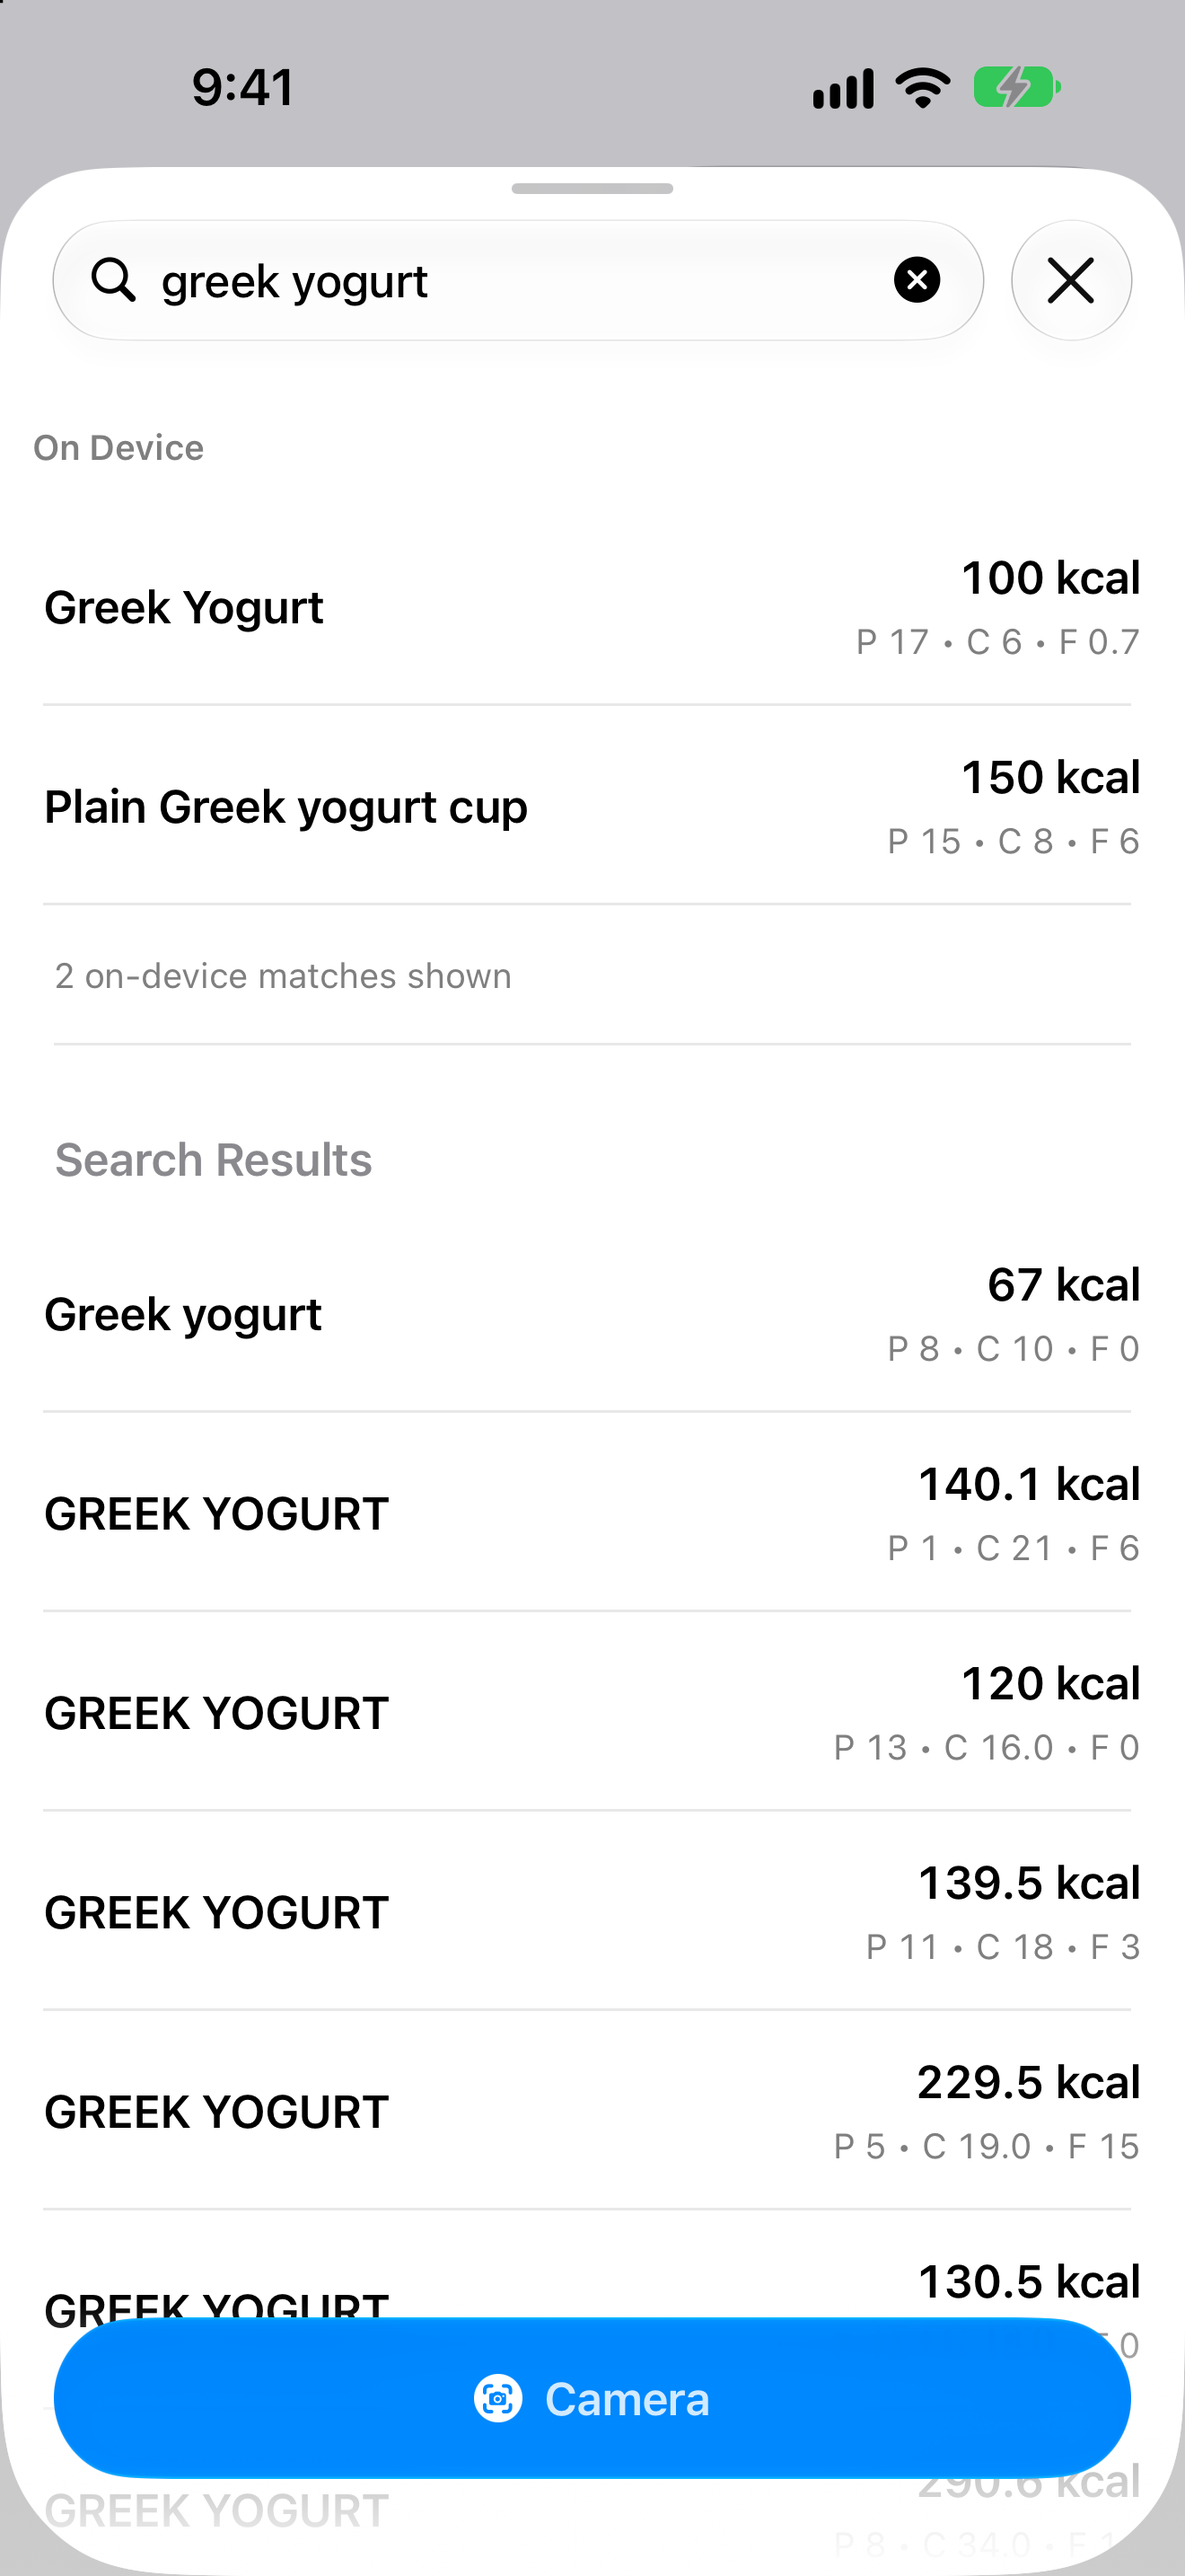
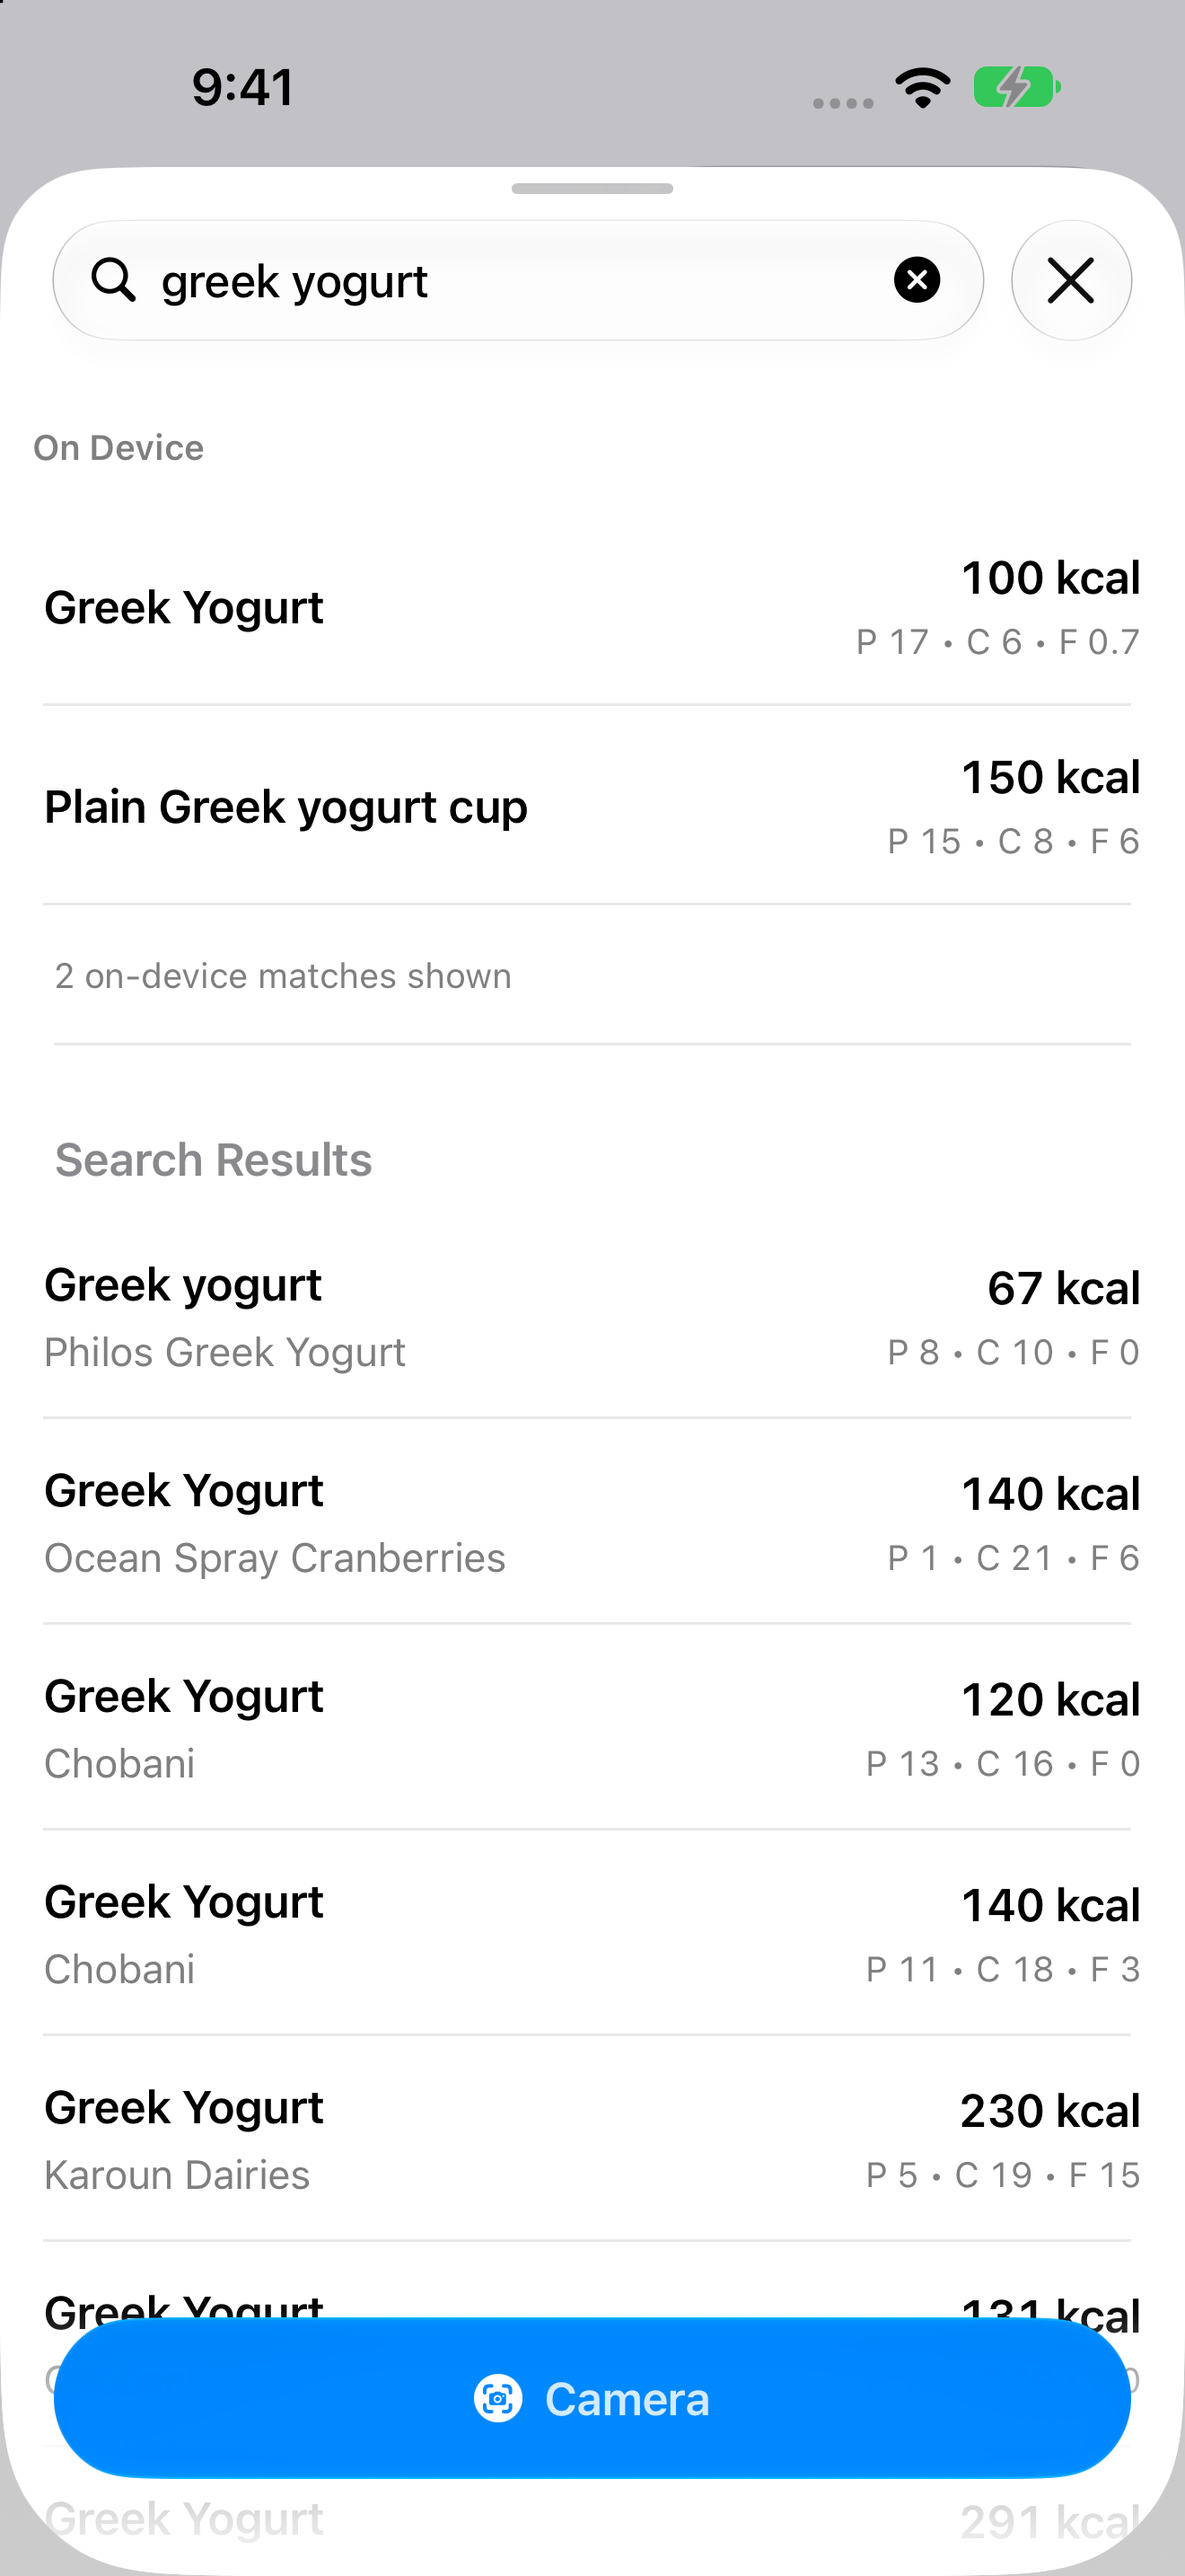
web: retake food search screenshot with brands

diff --git a/web/src/data/site.ts b/web/src/data/site.ts
@@ -200,7 +200,7 @@ export const site = {
 		},
 		{
 			src: appAddFoodImage,
-			alt: 'Food search for greek yogurt with On Device matches and Search Results in one list',
+			alt: 'Food search for greek yogurt with On Device matches and Search Results showing brands beneath food names',
 			title: 'Search foods in one list',
 		},
 		{

diff --git a/web/web-changes-log.md b/web/web-changes-log.md
@@ -4,6 +4,7 @@
 
 ## 2026-11-04 Build 32 Media And Food Search Copy Refresh
 
+- Retook Add Food for build 33 with brand lines beneath clean food names and whole-number calories; updated website and README alt text.
 - Replaced Add Food with a typed search showing On Device and Search Results, and retook Insights with the aligned Weight card. Retook the compact label-review card and added an inline Details editor image.
 - Replaced the widget image with personal small/medium widgets beside a real installed shared-person widget for Alex. Used a disposable profile on dev `energized-pigeon-822`, then deleted it. No production sharing data, app source changes, or deployments.
 - Kept home, history, settings, Sharing list, person sharing, and `public/og.png`: pictured layouts are unchanged. History’s date alone differs.

diff --git a/README.md b/README.md
@@ -22,7 +22,7 @@ The app stays local-first: no required account for normal tracking, on-device fo
 ### Logging
 
 <p align="center">
-  <img src="web/src/assets/app-images/app-add-food.png" alt="Food search for greek yogurt with On Device matches and Search Results in one list" width="220" />
+  <img src="web/src/assets/app-images/app-add-food.png" alt="Food search for greek yogurt with On Device matches and Search Results showing brands beneath food names" width="220" />
 </p>
 
 ### Settings
